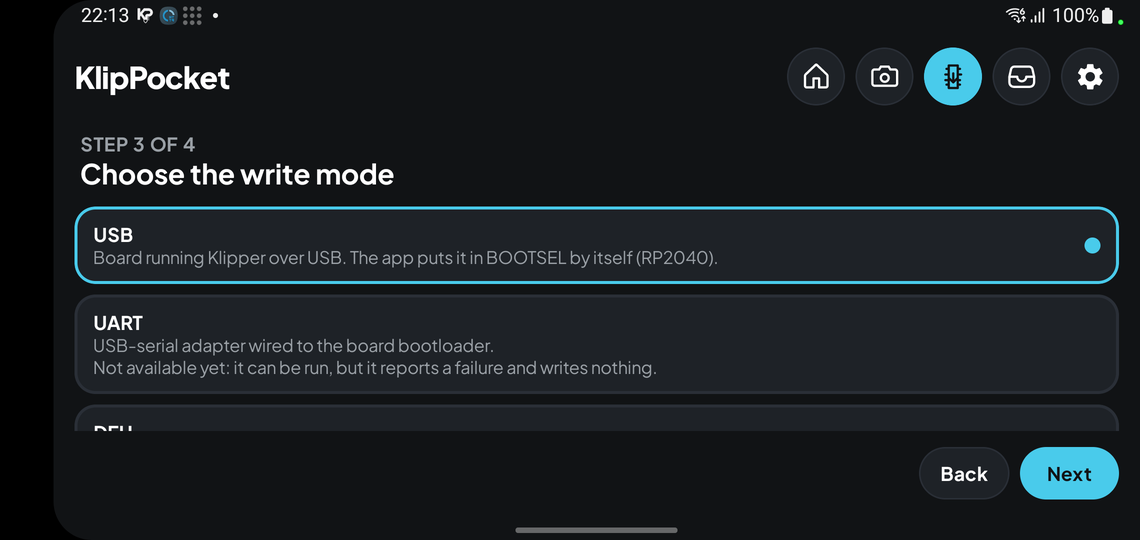
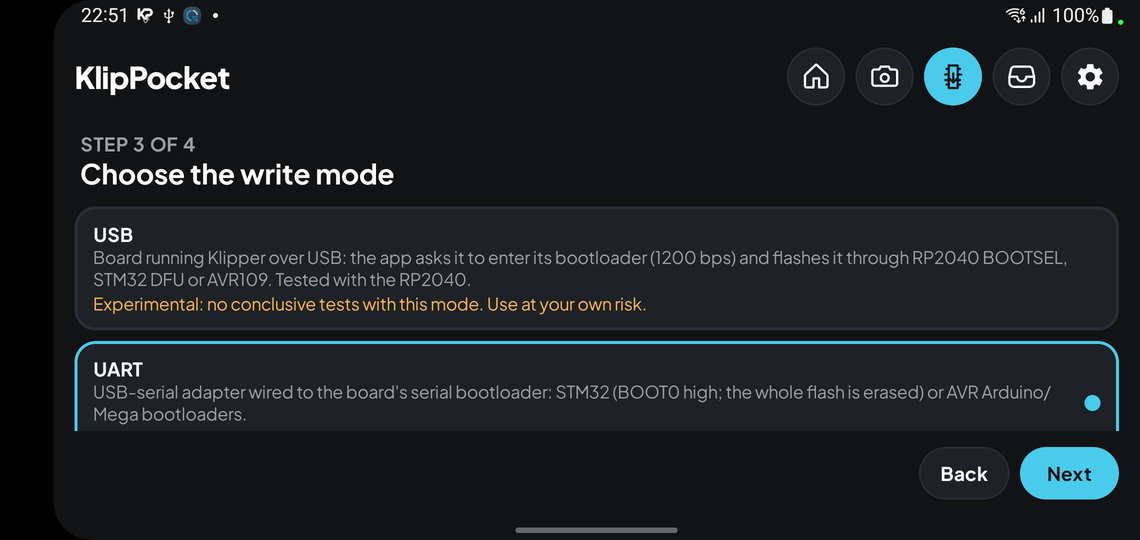
docs(firmware): describe all write modes, experimental status and the progress bar

Changed region(s): [[0.0614, 0.3556, 0.9825, 0.8], [0.0921, 0.0, 0.1842, 0.0593], [0.9518, 0.7111, 0.9825, 0.7704]]

diff --git a/docs/zh-Hans/firmware-tab.md b/docs/zh-Hans/firmware-tab.md
@@ -8,17 +8,22 @@
 
 ![固件标签页](../images/firmware-tab/tab-home.png)
 
-## 支持与不支持
+## 方式：哪些可用，哪些是实验性的
 
 | 方式 | 主板 | 状态 |
 |---|---|---|
-| **RP2040** | 已处于 BOOTSEL 的树莓派 Pico / RP2040（`2e8a:0003`） | **可用**（已在 Pico 上测试） |
-| **USB** | 通过 USB 运行 Klipper 的 Pico / RP2040：应用自动使其进入 BOOTSEL（1200 bps 请求）并写入 | **可用**（已在 Pico 上测试） |
-| **DFU** | 处于 DFU 模式的 STM32（`0483:df11`） | 暂不可用：会运行并报告失败，**不会写入任何内容** |
-| **UART** | 连接到串口引导程序的 USB 串口适配器 | 暂不可用：同 DFU |
+| **RP2040** | 已处于 BOOTSEL 的树莓派 Pico / RP2040（`2e8a:0003`） | 已在 Pico 上**测试** |
+| **USB** | 通过 USB 运行 Klipper 的主板。应用发送 1200 bps 引导程序请求（与 Klipper 的 `make flash` 相同），并通过出现的引导程序写入：RP2040 BOOTSEL、STM32 DFU 或 AVR109（ATmega32U4 / Caterina） | RP2040 配合 `.uf2` 已**测试**；其他引导程序为**实验性** |
+| **DFU** | 处于 DFU 模式的 STM32（`0483:df11`），DfuSe 协议：擦除扇区、写入、读回、退出 | **实验性** |
+| **UART** | 连接到主板串口引导程序的 USB 串口适配器：STM32（ST AN3155，会擦除整个闪存）或 AVR（STK500v1 "arduino"、STK500v2 "wiring"） | **实验性** |
 
-另外**不**支持：Pico 2 / RP2350、通过 SD 卡加载固件的主板（例如 Neptune 3 Pro：请把 `.bin` 复制到 SD 卡）以及 CAN 主板。
-文件必须是为 RP2040 构建的 `.uf2`（最安全）或原始 `.bin`；应用会拒绝其他芯片的 `.uf2`。
+> **实验性方式**已完整实现，但**没有在真实主板上的确凿测试**（只有针对模拟引导程序的单元测试）。
+> 应用会在方式列表中标出，并在写入前再次警告。**使用风险自负。**
+
+另外**不**支持：Pico 2 / RP2350、通过 SD 卡加载固件的主板（例如 Neptune 3 Pro：请把 `.bin` 复制到 SD 卡）、CAN 主板，
+以及上述之外的引导程序（Katapult、HID-Flash、SAM-BA）。应用会拒绝与所选方式不匹配的文件或设备：
+`.uf2` 必须为 RP2040 构建，RP2040 的原始 `.bin` 必须以有效的 boot2 块开头（因此 STM32 的 `.bin` 绝不会写入 Pico），
+DFU / UART 需要 `.bin` 或 `.hex`。
 
 > **写入固件可能使主板无法使用。** 只写入为该主板构建的文件，保持线缆连接并保持界面打开，
 > 并记住写入期间 Klipper 会失去与该主板的连接。
@@ -60,24 +65,34 @@
 
 ![第 2 步](../images/firmware-tab/step2-device.png)
 
-**3 —— 选择写入方式。** 应用会根据设备给出建议（Klipper 主板用 *USB*，BOOTSEL 用 *RP2040*）。
+**3 —— 选择写入方式。** 应用会根据设备给出建议（Klipper 主板用 *USB*，BOOTSEL 用 *RP2040*，`0483:df11` 用 *DFU*）。
+没有确凿测试的方式会显示**实验性**提示。
 
 ![第 3 步](../images/firmware-tab/step3-mode.png)
 
-**4 —— 确认。** 警告页显示文件、设备和方式。**取消/返回**不会改变任何内容；**确认**开始写入。
+对于写入 **STM32** 的原始 **`.bin`**（DFU、UART 或 USB 方式），会出现**闪存起始地址**输入框：文件写入的位置
+（除非下方有你自己的引导程序，否则为 `0x08000000`；Klipper 的 *Bootloader offset* 即该大小）。
+`.hex` 和 `.uf2` 文件自带地址。
+
+![起始地址](../images/firmware-tab/start-address.png)
+
+**4 —— 确认。** 警告页显示文件、设备和方式；实验性方式还会再给出一条“风险自负”的警告。**取消/返回**不会改变任何内容；**确认**开始写入。
 
 ![第 4 步](../images/firmware-tab/step4-warning.png)
 
-**进度。** 屏幕保持常亮并显示当前阶段：准备、使主板进入 BOOTSEL、等待、USB 权限、擦除、写入、校验（读回并比对）、重启、等待主板。
+**进度。** 屏幕保持常亮。一条进度条覆盖整个过程（逐阶段推进，从不倒退），平滑填充，并在应用工作时有一道光扫过；
+下方显示当前阶段和总百分比：准备、使主板进入 BOOTSEL、等待、USB 权限、与引导程序通信、擦除、写入、校验（读回并比对）、重启、等待主板。
+如果失败，进度条会消失并显示错误。
 
 ![进度](../images/firmware-tab/progress.png)
 
-**结果。** 成功表示已写入、校验，并且（使用 USB 时）主板已作为 Klipper 设备重新出现在总线上。
+**结果。** 成功（进度条已满）表示已写入、校验，并且（使用 USB 时）主板已作为 Klipper 设备重新出现在总线上。
 如果数据已校验但主板没有重新出现在 USB 上，应用会提示。失败时会用你的语言说明原因。
 
 | | |
 |---|---|
-| ![成功](../images/firmware-tab/success.png) | ![失败](../images/firmware-tab/failure.png) |
+| ![成功](../images/firmware-tab/success.png) | ![失败：引导程序没有响应](../images/firmware-tab/failure.png) |
+| ![设备与方式不匹配](../images/firmware-tab/failure-wrong-device.png) | |
 
 **查看日志**会打开日志标签页中新的**固件写入**来源。
 
@@ -100,10 +115,14 @@
 
 | 提示 | 处理方法 |
 |---|---|
-| 主板未进入 BOOTSEL 模式 | 插入主板时按住 **BOOTSEL**，并使用 *RP2040* 方式。 |
+| 未出现受支持的引导程序 | 发送 1200 bps 请求后主板没有进入 RP2040 BOOTSEL、STM32 DFU 或 AVR109。请手动使其进入引导程序（BOOTSEL / BOOT0），并使用 *RP2040* 或 *DFU* 方式。 |
+| 所选设备与方式不匹配 | 为该方式选择正确的设备（*DFU* 需要 `0483:df11`，*RP2040* 需要 `2e8a:0003`）。未写入任何内容。 |
+| 引导程序没有响应 | UART：检查 BOOT0 和复位（STM32）或复位线（AVR）、接线和波特率。未写入任何内容。 |
+| 该设备不是 USB 串口适配器 | UART 方式需要 CDC / CH34x / CP210x / FTDI 适配器。 |
+| 此文件类型不适用于所选方式 | RP2040：`.uf2` 或 `.bin`；STM32 / AVR：`.bin` 或 `.hex`。 |
+| 闪存起始地址无效 | STM32 的 `.bin` 文件地址应在 `0x08000000` 到 `0x0FFFFFFF` 之间。 |
 | 未授予 USB 权限 | 重试并接受 Android 的提示。 |
 | 此 UF2 不适用于 RP2040 | 为 RP2040 构建固件（见 [build-firmware.md](build-firmware.md)）。 |
-| 写入后闪存与文件不一致 | 不要拔线，重新运行。主板会停留在 BOOTSEL，随时可以重新写入。 |
-| 该写入方式暂不可用 | DFU 和 UART 尚未实现；未写入任何内容。 |
+| 写入后闪存与文件不一致 | 不要拔线，重新运行。RP2040 会停留在 BOOTSEL，随时可以重新写入。 |
 
 Pico 始终保留其 BOOTSEL 引导程序，因此写入失败时按住 BOOTSEL 重新写入即可恢复。
